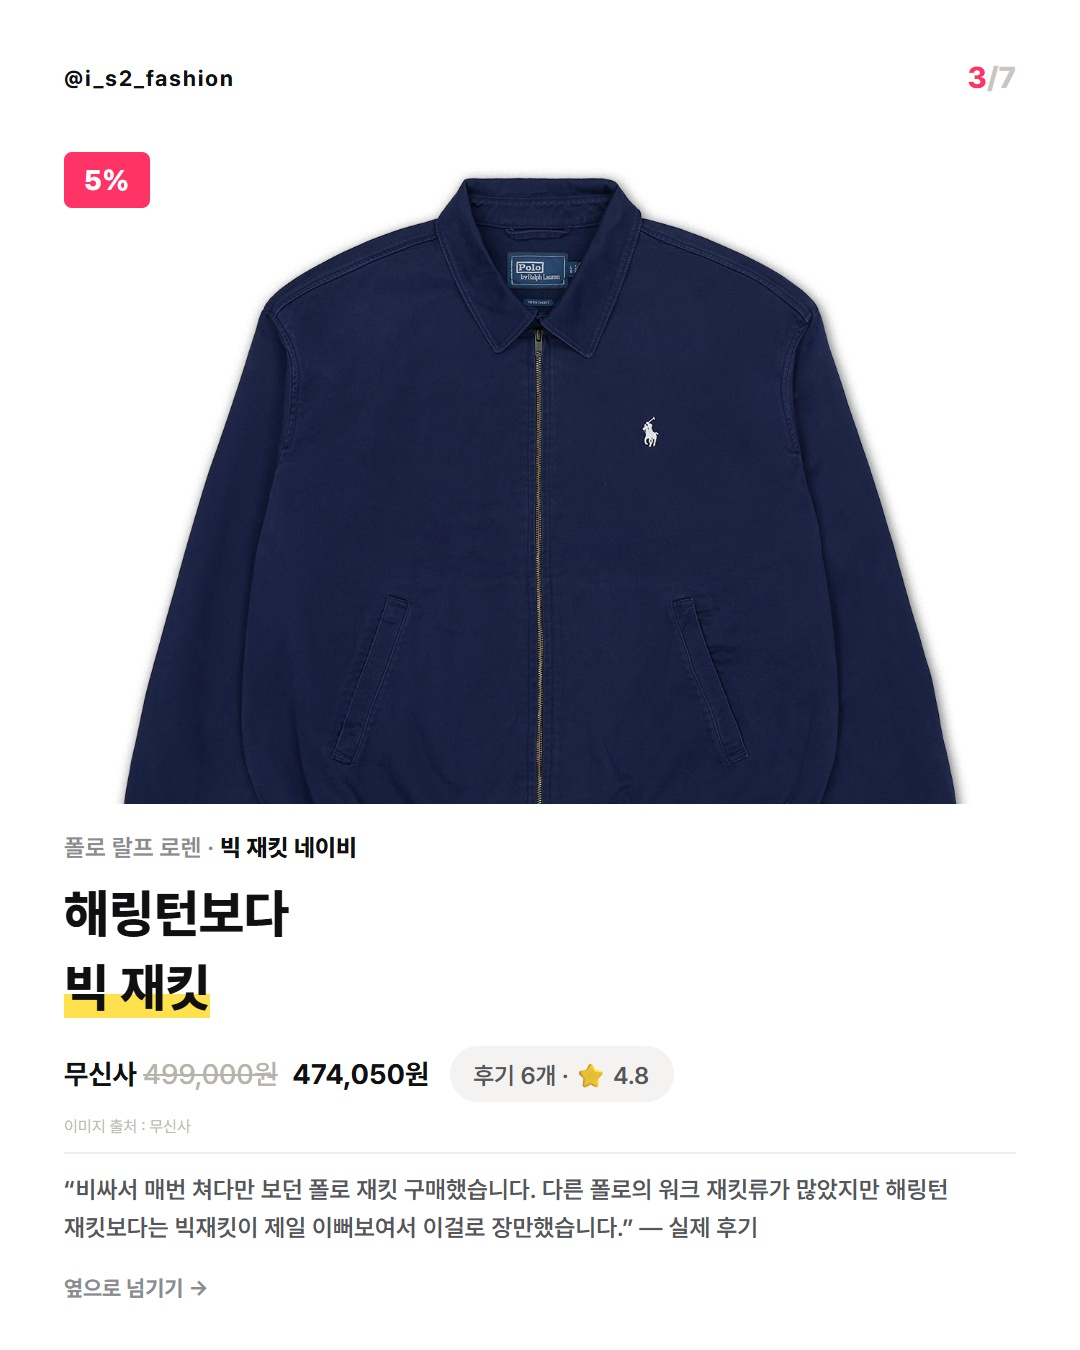
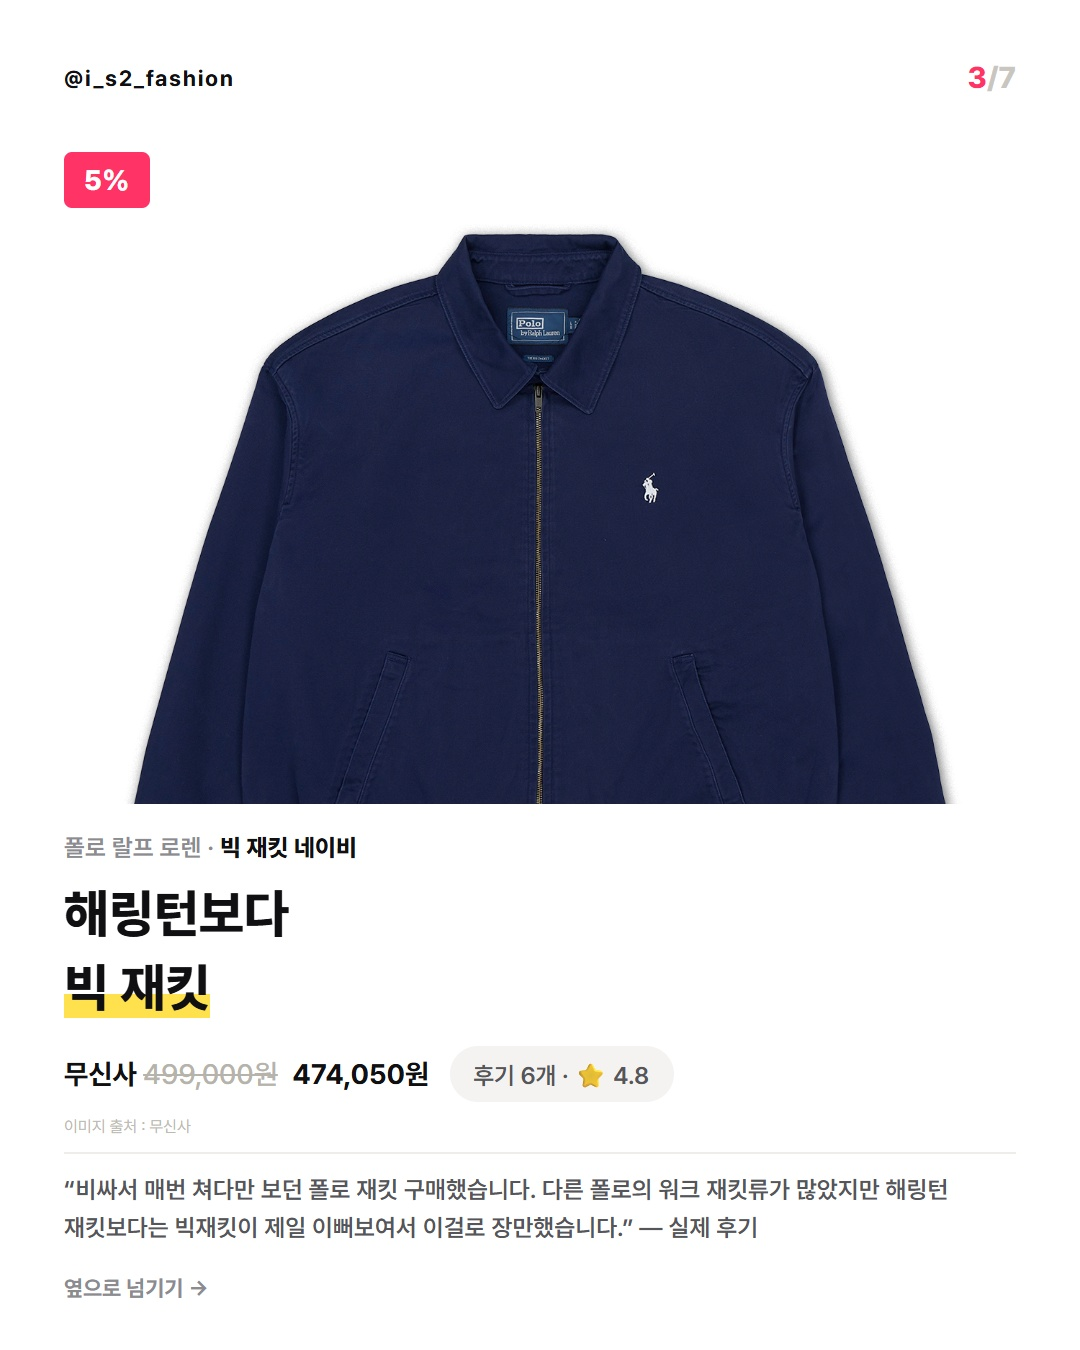
chore: auto-commit by Claude Code (2026-09-04 01:48:25)

Changed region(s): [[0.0917, 0.1244, 0.8861, 0.5911], [0.4889, 0.3733, 0.5194, 0.5911], [0.5806, 0.3111, 0.6111, 0.3733]]

diff --git a/card-drafts/early-autumn-denim/index.html b/card-drafts/early-autumn-denim/index.html
@@ -1,4 +1,4 @@
-<!doctype html><html lang="ko"><head><meta charset="utf-8"><meta name="viewport" content="width=device-width,initial-scale=1"><title>초가을 아우터 카드뉴스</title>
+<!doctype html><html lang="ko"><head><meta charset="utf-8"><meta name="viewport" content="width=device-width,initial-scale=1"><title>초가을 데님 카드뉴스</title>
 <link href="https://cdn.jsdelivr.net/gh/orioncactus/pretendard@v1.3.9/dist/web/variable/pretendardvariable.min.css" rel="stylesheet"><style>
 :root{--ink:#101012;--mute:#8b8b90;--accent:#ff3366;--chip:#f4f3f1;--sans:"Pretendard Variable","Pretendard","Apple SD Gothic Neo","Malgun Gothic",system-ui,sans-serif}*{box-sizing:border-box}body{margin:0;background:#141416;color:#cfcfca;font-family:var(--sans);padding:42px 20px 100px}.head{max-width:1180px;margin:auto;text-align:center}.head h1{font-size:20px;color:#fff;margin:0 0 10px}.head p{font-size:13px;color:#96938c;line-height:1.7;margin:0}.toolbar{margin:20px auto 34px;text-align:center}.toolbar button{font:600 11px var(--sans);letter-spacing:.12em;background:#e8e5de;border:0;padding:12px 22px;cursor:pointer}.board{max-width:1180px;margin:auto;display:grid;grid-template-columns:repeat(auto-fit,minmax(270px,1fr));gap:40px 26px;justify-items:center}.col{width:100%;max-width:360px}.slot{width:100%;position:relative;overflow:hidden}.cap{display:flex;justify-content:space-between;align-items:center;margin:14px 2px 0;font-size:10.5px;color:#8f8c85;letter-spacing:.14em}.cap button{font:500 10px var(--sans);color:#cfccc5;background:transparent;border:1px solid #ffffff2e;padding:6px 11px;cursor:pointer}.card{position:relative;width:540px;height:675px;overflow:hidden;background:#fff;color:var(--ink);transform-origin:top left;display:flex;flex-direction:column;padding:30px 32px 24px}.toprow{display:flex;justify-content:space-between;align-items:center;flex:none;margin-bottom:14px}.handle{font-size:11px;font-weight:700;letter-spacing:.08em}.num{font-size:15px;font-weight:800;color:var(--accent)}.num i{font-style:normal;color:#c9c6bf}.photo{flex:none;align-self:center;width:330px;height:330px;border-radius:6px;overflow:hidden;position:relative;background:#f5f5f3}.photo img{width:100%;height:100%;object-fit:contain;display:block}.badge{position:absolute;top:10px;left:10px;background:var(--accent);color:#fff;font-size:14px;font-weight:800;padding:6px 10px;border-radius:4px}.caption{flex:1;min-height:0;display:flex;flex-direction:column;justify-content:center}.title{margin:0;font-weight:800;font-size:26px;line-height:1.42;letter-spacing:0;word-break:keep-all}.title em{font-style:normal;box-shadow:inset 0 -12px 0 #ffe14d}.prodline{font-size:12px;font-weight:600;color:#8b8b90;margin-bottom:8px;letter-spacing:.1px}.prodline b{color:#101012;font-weight:800}.metarow{display:flex;align-items:center;gap:10px;margin-top:10px;flex-wrap:wrap}.meta{font-size:14px;font-weight:700}.proof{background:var(--chip);border-radius:99px;padding:6px 12px;font-size:12px;font-weight:600;color:#55555a}.credit{font-size:8px;color:#bdbab3;margin-top:7px}.selling{margin-top:8px;font-size:12px;font-weight:600;color:#55555a;line-height:1.65;letter-spacing:.1px;word-break:keep-all;border-top:1px solid #efedea;padding-top:9px}.foot{flex:none;margin-top:10px;font-size:11px;font-weight:700;color:var(--mute)}.cover .title{font-size:39px;line-height:1.34;letter-spacing:-.2px}.cover .kicker{font-size:14px;font-weight:800;color:var(--accent);letter-spacing:.14em;margin-bottom:10px}.cover .sub,.cta .sub{font-size:14.5px;font-weight:600;color:#55555a;margin:14px 0 0;line-height:1.75;letter-spacing:.1px}.cta .title{font-size:32px;line-height:1.38}.cta .caption{text-align:center;align-items:center}.cta .photo{width:400px;height:380px}@media(max-width:620px){body{padding:28px 12px 70px}.board{grid-template-columns:1fr}.col{max-width:390px}}
 @media(max-width:620px){.board{width:100%;grid-template-columns:minmax(0,1fr)}.col{min-width:0;max-width:100%}}
@@ -12,16 +12,16 @@
 .card.item .caption{margin-top:12px}
 .card.item .photo img,.card.cover .photo img{width:100%;height:100%;object-fit:cover;object-position:var(--pos,50% 20%)}
 .cover .caption{margin-top:14px}
-</style></head><body><div class="head"><h1>초가을 아우터 카드뉴스 · 인스타 후킹형 · @i_s2_fashion</h1><p>표지 → 러플 카디건 · 네이비 재킷 · 하프 트렌치 · 윈드브레이커 · 트랙탑 → CTA (7장)<br>C안 고정 디자인 · 상품 정보: 무신사 2026-09-04 재확인</p></div><div class="toolbar"><button onclick="exportAll()">⬇ 전체 PNG 내보내기 (7장)</button></div><div class="board" id="board"></div>
+</style></head><body><div class="head"><h1>초가을 데님 카드뉴스 · 인스타 후킹형 · @i_s2_fashion</h1><p>표지 → 커브드 · 와이드 · 부츠컷 · 로우라이즈 플레어 · 벌룬 → CTA (7장)<br>C안 고정 디자인 · 상품 정보: 무신사 2026-09-04 실측</p></div><div class="toolbar"><button onclick="exportAll()">⬇ 전체 PNG 내보내기 (7장)</button></div><div class="board" id="board"></div>
 <script src="https://cdnjs.cloudflare.com/ajax/libs/html2canvas/1.4.1/html2canvas.min.js"></script><script>
 const cards=[
-{kind:'cover',img:'assets/cover-calvin-big.jpg',pos:'50% 15%',lab:'표지',kicker:'EARLY AUTUMN OUTER',title:'반팔 위에 바로,<br><em>초가을 아우터</em>',sub:'두껍지 않게 분위기만 먼저 바꾸는 다섯 벌'},
-{kind:'item',img:'assets/01-eightseconds-cardigan-crop.jpg',pos:'50% 10%',lab:'에잇세컨즈',badge:'9%',prod:'에잇세컨즈 · <b>러플 긴소매 카디건</b>',title:'진주 단추는 뻑뻑해도<br><em>디자인이 이긴다</em>',meta:'무신사 <s>69,900원</s> 63,610원',proof:'후기 3개 · ⭐ 5.0',sp:'“디자인도 맘에 들고 느낌도 좋아요 단점이라면 단추가 진주라서 좀 빡셉니다. 그래도 그런 단점을 상쇄하는 디자인이에요.” —&nbsp;실제&nbsp;후기'},
-{kind:'item',img:'assets/02-polo-big.jpg',pos:'50% 26%',lab:'폴로 랄프 로렌',badge:'5%',prod:'폴로 랄프 로렌 · <b>빅 재킷 네이비</b>',title:'해링턴보다<br><em>빅 재킷</em>',meta:'무신사 <s>499,000원</s> 474,050원',proof:'후기 6개 · ⭐ 4.8',sp:'“비싸서 매번 쳐다만 보던 폴로 재킷 구매했습니다. 다른 폴로의 워크 재킷류가 많았지만 해링턴 재킷보다는 빅재킷이 제일 이뻐보여서 이걸로 장만했습니다.” —&nbsp;실제&nbsp;후기'},
-{kind:'item',img:'assets/03-mixxo-cuff.jpg',pos:'50% 38%',lab:'미쏘',badge:'24%',prod:'미쏘 · <b>하프 트렌치코트</b>',title:'소매를 접으면<br><em>디테일이 보여</em>',meta:'무신사 <s>129,000원</s> 98,040원',proof:'후기 15개 · ⭐ 5.0',sp:'“봄가을에 너무너무 잘 입을거 같아요! 소매 안감 디테일도 너무 귀엽구 .. 색도 맘에들어요🫰🏻🤍 사이즈 s인데도 겁나 커요,, 매장에서 입어보고 온라인주문 추천합니댜 ㅎㅎ” —&nbsp;실제&nbsp;후기'},
-{kind:'item',img:'assets/04-calvin-big.jpg',pos:'50% 45%',lab:'캘빈클라인 진',badge:'40%',prod:'캘빈클라인 진 · <b>콘트라스트 스티치 윈드브레이커</b>',title:'가볍게 걸치고<br><em>뒤는 확실하게</em>',meta:'무신사 <s>219,000원</s> 131,400원',proof:'후기 98개 · ⭐ 4.9',sp:'“뒤에 백로고가 너무 예뻐요. 간절기에 들고 다니고 걸치기 좋은 두께감입니다. 가벼워요” —&nbsp;실제&nbsp;후기'},
-{kind:'item',img:'assets/05-adidas-big.jpg',pos:'50% 74%',lab:'아디다스',badge:'17%',prod:'아디다스 · <b>클래식 트랙탑</b>',title:'색감 예쁜데<br><em>밑단 시보리 짱짱</em>',meta:'무신사 <s>109,000원</s> 90,470원',proof:'후기 9개 · ⭐ 5.0',sp:'“디자인이랑 색감 진짜 이뻐요! 그리고 밑단 시보리가 엄청 짱짱해서 골반에 딱 걸쳐요 이 부분 고려해서 사이즈 선택해야 할 것 같아요” —&nbsp;실제&nbsp;후기'},
-{kind:'cta',img:'../../CARD/zzal/20260830.jpg',lab:'CTA',title:'다 사고 싶지만<br><em>통장은 하나</em>',sub:'이번 가을 가장 먼저 살 한 벌부터<br>골라서 저장해두세요'}];
+{kind:'cover',img:'assets/cover-secondsalt.jpg',pos:'50% 18%',lab:'표지',kicker:'EARLY AUTUMN DENIM',title:'여름엔 뺐던 청바지<br><em>이제 꺼낼 때</em>',sub:'커브드부터 벌룬까지, 핏으로 고른 다섯 벌'},
+{kind:'item',img:'assets/01-ourdayz.jpg',pos:'50% 60%',lab:'아워데이즈',badge:'31%',prod:'아워데이즈 · <b>세미 커브드 데님 팬츠</b>',title:'마른 체형도 핏 살고<br><em>다리는 길어 보여</em>',meta:'무신사 <s>66,000원</s> 45,540원',proof:'후기 90개 · ⭐ 5.0',sp:'“입었을 때 마른 사람도 핏 괜찮게 떨어지고 무엇보다 다리 길어보이는 게 좋네요” —&nbsp;실제&nbsp;후기'},
+{kind:'item',img:'assets/02-michiko.jpg',pos:'50% 50%',lab:'미치코런던 코시노',badge:'5%',prod:'미치코런던 코시노 · <b>시그니처 와이드 데님</b>',title:'뒤 포켓은 귀엽고<br><em>실루엣은 세련되게</em>',meta:'무신사 <s>89,000원</s> 84,550원',proof:'후기 7개 · ⭐ 5.0',sp:'“뒤 포켓 디자인이 너무 귀여워요! 와이드 실루엣이 세련돼서 마음에 들어요. 잘 입을거같아요!” —&nbsp;실제&nbsp;후기'},
+{kind:'item',img:'assets/03-mireco.jpg',pos:'50% 40%',lab:'미레코',badge:'10%',prod:'미레코 · <b>논페이드 부츠컷 데님</b>',title:'생지인데 편하고<br><em>핏은 예쁘게</em>',meta:'무신사 <s>90,000원</s> 81,000원',proof:'후기 35개 · ⭐ 4.8',sp:'“생지 데님인데 너무 편하고 그러면서 바지 핏도 예뻐요 길이는 좀 길어서 수선했습니다” —&nbsp;실제&nbsp;후기'},
+{kind:'item',img:'assets/04-notfornerd.jpg',pos:'50% 55%',lab:'낫포너드',badge:'40%',prod:'낫포너드 · <b>로우라이즈 플레어 데님</b>',title:'다들 어디 거냐고<br><em>물어보는 핏</em>',meta:'무신사 <s>99,000원</s> 59,000원',proof:'후기 27개 · ⭐ 4.8',sp:'“핏 존예 다들 어디꺼냐고 물어봐요 로우라이즈 핏 딱 좋고 허리사이즈 길이 다 완전 저한테 딱 이에요 스판이 많이 없어서 앉아있을때 좀 불편하긴한데 그래도 예뻐서 참을만해요 ㅎ” —&nbsp;실제&nbsp;후기'},
+{kind:'item',img:'assets/05-secondsalt.jpg',pos:'50% 30%',lab:'세컨드솔트',badge:'12%',prod:'세컨드솔트 · <b>벌룬 데미지 데님 팬츠</b>',title:'찢청에 벌룬핏은<br><em>신의 한 수</em>',meta:'무신사 <s>79,000원</s> 69,520원',proof:'후기 73개 · ⭐ 4.8',sp:'“찢청 원래도 좋아하지만 이 벌룬핏이 신의한수!! 진짜 넘 예뻐요...  색상도 딱 예쁜 연청!” —&nbsp;실제&nbsp;후기'},
+{kind:'cta',img:'../../CARD/zzal/20260830.jpg',lab:'CTA',title:'청바지 딱 한 벌만<br><em>고르라면 몇 번</em>',sub:'올가을 처음 꺼낼 청바지부터<br>번호 골라 저장해두세요'}];
 function html(c,i){let photo=c.kind==='cta'?`<div class="photo"><img src="${c.img}" alt="" onload="sizePhoto(this)"></div>`:`<div class="photo"><img src="${c.img}" alt="" style="--pos:${c.pos||'50% 20%'}">${c.badge?`<span class="badge">${c.badge}</span>`:''}</div>`,body=c.kind==='cover'?`<div class="caption"><div class="kicker">${c.kicker}</div><h2 class="title">${c.title}</h2><p class="sub">${c.sub}</p></div>`:c.kind==='cta'?`<div class="caption"><h2 class="title">${c.title}</h2><p class="sub">${c.sub}</p></div>`:`<div class="caption"><div class="prodline">${c.prod}</div><h2 class="title">${c.title}</h2><div class="metarow"><span class="meta">${c.meta}</span><span class="proof">${c.proof}</span></div><div class="credit">이미지 출처 : 무신사</div><div class="selling">${c.sp}</div></div>`;return `<div class="card ${c.kind}" id="card${i}"><div class="toprow"><span class="handle">@i_s2_fashion</span><span class="num">${i+1}<i>/7</i></span></div>${photo}${body}<div class="foot">${i<6?'옆으로 넘기기 →':'&nbsp;'}</div></div>`}
 function sizePhoto(img){const wrap=img.parentElement,isCta=wrap.closest('.cta'),maxW=isCta?400:330,maxH=isCta?380:330,ratio=img.naturalWidth/img.naturalHeight;let w=maxW,h=Math.round(w/ratio);if(h>maxH){h=maxH;w=Math.round(h*ratio)}wrap.style.width=w+'px';wrap.style.height=h+'px'}
 cards.forEach((c,i)=>{let col=document.createElement('div');col.className='col';col.innerHTML=`<div class="slot">${html(c,i)}</div><div class="cap"><span>0${i+1} · ${c.lab}</span><button onclick="save(${i})">PNG 저장</button></div>`;board.append(col)});function fit(){document.querySelectorAll('.col').forEach(col=>{let card=col.querySelector('.card'),slot=col.querySelector('.slot'),s=Math.min(1,col.clientWidth/540);card.style.transform=`scale(${s})`;slot.style.height=675*s+'px'})}fit();addEventListener('resize',fit);

diff --git a/KEYWORD-POLICY.md b/KEYWORD-POLICY.md
@@ -140,6 +140,15 @@
      `goodsPrice.salePrice` 를 본다. 후기는 `goods.musinsa.com/api2/review/v1/goods/{no}/reviews/summary`.
 8. (선택) 헤드라인 하이라이트가 매 카드 둘째 줄에만 반복되면 기계적으로 보일 수 있다.
    카피가 자연스러운 범위에서 첫째 줄 강조도 섞는 것을 고려한다.
+9. **사진은 좌우 여백 없이 카드 폭(540px) 전체를 채우는 풀블리드로 넣는다 — 표지와 상품 카드 모두, CTA(마지막)만 제외**
+   (2026-09-05 사용자 디자인 피드백, `20260831 초가을 아우터`에서 확정).
+   - 프레임 높이는 표지 380px·상품 카드 340px(텍스트 블록이 밀리지 않는 한계). 모서리 둥글기 없음, 할인 배지는 왼쪽 32px 안쪽.
+   - 세로 사진은 `object-fit: cover`로 채우고 **헤드라인이 가리키는 부위가 보이게 크롭 위치를 카드별로 잡는다**
+     (예: "밑단 시보리" 헤드라인이면 밑단이 보여야 한다 — 얼굴보다 우선). 크롭 위치를 정하기 전에 렌더 결과를 실제로 열어 확인한다.
+   - 크롭으로 사진이 커지므로 **무신사 원본(`_big`, 900~1500px)을 받아 쓴다.** 500px 썸네일을 그대로 키우면 뭉개진다.
+   - 위 규칙 2의 "표지 줌 크롭 금지"는 저해상도 확대·구도 훼손을 막으려던 것이다. 원본 해상도로 프레임에 맞춰 자르는 이 풀블리드 크롭에는 적용하지 않는다.
+   - 사진에 흰 여백이 있는 원본(예: 에잇세컨즈 룩북 컷)은 여백을 먼저 잘라낸 뒤 쓴다. 블러로 배경을 늘리는 방식은 "이질감" 피드백으로 폐기.
+   - 흰 배경 누끼(폴로 빅 재킷 등)는 풀블리드에서 프레임 경계가 사라진다. 착용컷이 없을 때만 허용하고 보고 시 밝힌다.
 
 ## 멘트·카피 세부 규칙 (2026-07-28 멘트 피드백 — 필수)
 

diff --git a/card-drafts/early-autumn-outer/result.md b/card-drafts/early-autumn-outer/result.md
@@ -42,6 +42,10 @@
    사진 프레임을 476→**400px**(좌우 여백 32→70px)로 줄이고 높이를 310→**325px**(표지 370px)로 키워 정사각에 가깝게 바꿨다.
    세로 사진의 노출 비율이 54%→68~77%로 늘어 카디건·트렌치·재킷이 거의 통째로 들어온다. 아디다스는 헤드라인(밑단 시보리)에 맞춰 하단 기준 크롭.
 
+10. **자체 피드백 라운드 2 (09-05)** — 풀블리드 전환 후 전수 재검토. 3번 폴로 칼라 상단이 프레임에 잘려 크롭 위치를 올렸다(밑단 대신 칼라를 살림 —
+    헤드라인 "빅 재킷"은 실루엣 얘기라 상단 실루엣이 우선). 나머지 6장은 사진·헤드라인·수치·캡션 재확인, 수정 없음.
+    이번 풀블리드 방향은 KEYWORD-POLICY 디자인 규칙 9로 기록했고, 현역 템플릿(`uvparasol-insta.html`) 반영은 다음 게시물 제작 시 과제.
+
 ## 2. 게시 전 검증 (2026-09-04)
 - 무신사 상품 페이지·후기 API로 5종 가격·할인율·후기 수·평점 실측 (아래 표). 할인 검산 5건 일치
   (69,900×0.91≈63,610 / 499,000×0.95=474,050 / 129,000×0.76=98,040 / 219,000×0.60=131,400 / 109,000×0.83=90,470).
